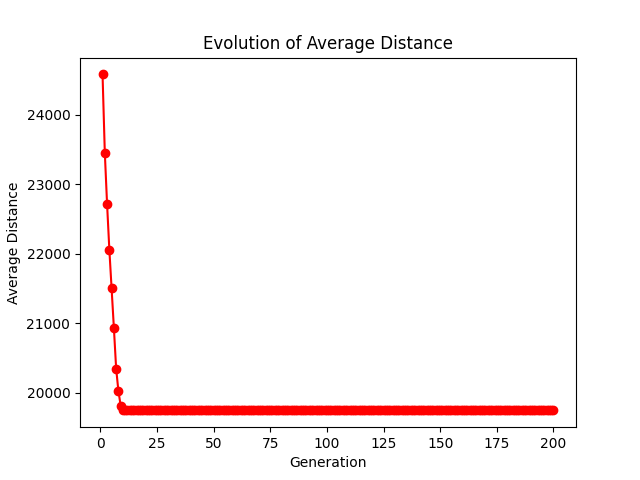
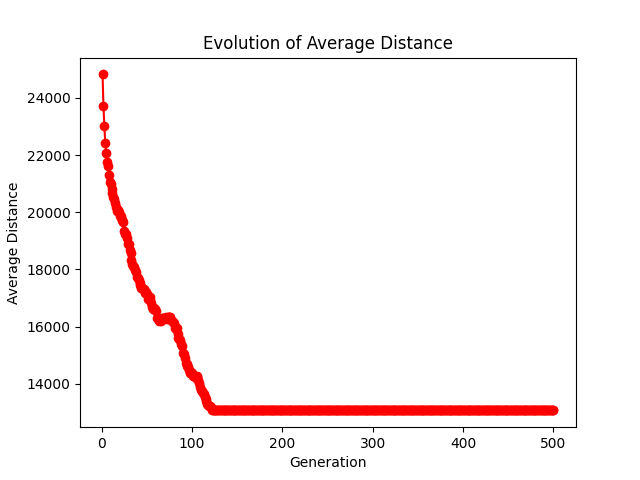
modification of the mutation method

diff --git a/main.py b/main.py
@@ -1,10 +1,11 @@
 import os
 import statistics
+import random
 import matplotlib.pyplot as plt
 from beehive import Flower, Beehive
 
 class Generation(Beehive):
-    def __init__(self, x, y, flowers, num_generations=200):
+    def __init__(self, x, y, flowers, num_generations=500):
         """
         Initializes a new generation of bees with a mutation process every 10 generations.
         """
@@ -24,11 +25,25 @@ class Generation(Beehive):
                 self.verify_duplicate_flowers()
 
             self.generation += 1
-            self.mutation(generation)
+            # self.mutation(generation)
             avg_distance = round(statistics.mean(distance for _, distance in self.genome_list), 2)
             self.avg_distances.append(avg_distance)
             print(f"Generation {self.generation}: Average distance: {avg_distance}")
-
+            
+    def mutation(self, generation):
+        """
+        Mutates one bee genome if the average distance is the same for 5 generations.
+        """
+        if len(self.avg_distances) >= 5 and len(set(self.avg_distances[-3:])) == 1:
+            print(f"Mutation in generation {generation}")
+            mutated_bee_index = random.randint(0, len(self.genome_list) - 1)
+            bee_genome, _ = self.genome_list[mutated_bee_index]
+            if len(bee_genome) >= 2:
+                idx1, idx2 = random.sample(range(len(bee_genome)), 2)
+                bee_genome[idx1], bee_genome[idx2] = bee_genome[idx2], bee_genome[idx1]
+                self.genome_list[mutated_bee_index] = (bee_genome, self.calculate_distance(bee_genome))
+        return self.genome_list
+        
     def save_graphs(self):
         """
         Saves the best bee path and average distance evolution graphs.

diff --git a/beehive.py b/beehive.py
@@ -139,17 +139,3 @@ class Beehive(Flower):
                 bee_genome.append(new_flower)
                 missing_flowers.remove(new_flower)
             self.genome_list[i] = (bee_genome, self.calculate_distance(bee_genome))
-            
-    def mutation(self, generation):
-        """
-        Mutates the bee genomes every 10 generations.
-        """
-        if generation % 10 == 0:
-            for i in range(len(self.genome_list)):
-                if random.random() < 0.5:
-                    bee_genome, _ = self.genome_list[i]
-                    if len(bee_genome) >= 2:
-                        idx1, idx2 = random.sample(range(len(bee_genome)), 2)
-                        bee_genome[idx1], bee_genome[idx2] = bee_genome[idx2], bee_genome[idx1]
-                        self.genome_list[i] = (bee_genome, self.calculate_distance(bee_genome))
-        return self.genome_list
